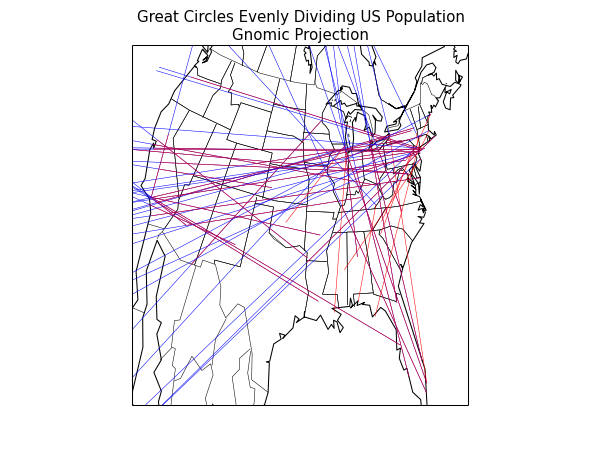
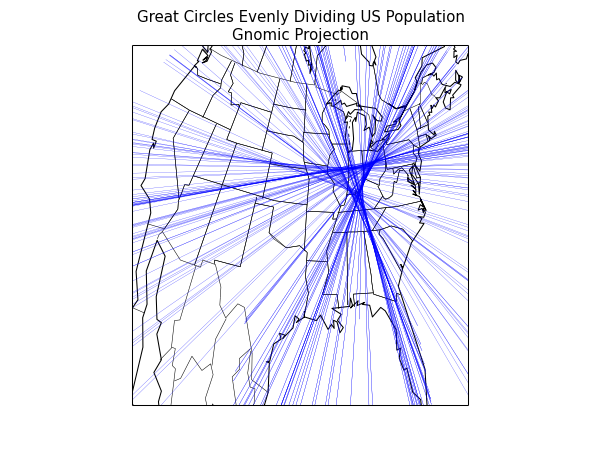
calculated and drew great circle dividers

Changed region(s): [[0.21, 0.0933, 0.78, 0.9022], [0.27, 0.7778, 0.3, 0.8089]]

diff --git a/drawmap.py b/drawmap.py
@@ -36,23 +36,26 @@ def drawmap(m,outfile,title):
 
 		#extend great cirlce to the right and left by calculating it's intersection with 2
 		#other great circles, at fixed longitudes (vertical lines on mercator projection)
-		rightCircle = Greatcircle(0.,-60,10.,-60.)
-		leftCircle = Greatcircle(0.,-130.,10.,-130.)
+		# rightCircle = Greatcircle(0.,-60,10.,-60.)
+		# leftCircle = Greatcircle(0.,-130.,10.,-130.)
 
-		right_coords = intersection(inCircle,rightCircle)
-		left_coords = intersection(inCircle,leftCircle)
 
-		try:
-			if lon1<lon2:
-				#m.drawgreatcircle(lon2,lat2,-60.,right_coords[0], linewidth=.5, color='b', alpha = 1)
-				m.drawgreatcircle(-130.,left_coords[0],lon2,lat2, linewidth=.5, color='b', alpha = 1)
+		# if lon1<lon2:
+		# 	m.drawgreatcircle(lon2,lat2,-60.,right_coords[0], linewidth=.5, color='b', alpha = 1)
+		# 	m.drawgreatcircle(-130.,left_coords[0],lon1,lat1, linewidth=.5, color='b', alpha = 1)
 
-			else:
-				#m.drawgreatcircle(lon1,lat1,-60.,right_coords[0], linewidth=.5, color='b', alpha = 1)
-				m.drawgreatcircle(-130.,left_coords[0],lon1,lat1, linewidth=.5, color='b', alpha = 1)
-			m.drawgreatcircle(lon1,lat1,lon2,lat2,linewidth=.5, color='r')
-		except:
-			pass
+		# else:
+		# 	m.drawgreatcircle(lon1,lat1,-60.,right_coords[0], linewidth=.5, color='b', alpha = 1)
+		# 	m.drawgreatcircle(-130.,left_coords[0],lon2,lat2, linewidth=.5, color='b', alpha = 1)
+		for lon in [[-130,-101,'b'],[-101,-93,'b'],[-93,-87,'b'],[-87,-80,'b'],[-80,-60,'b']]:
+			rightCircle = Greatcircle(0.,lon[0],10.,lon[0])
+			leftCircle = Greatcircle(0.,lon[1],10.,lon[1])
+			right_coords = intersection(inCircle,rightCircle)
+			left_coords = intersection(inCircle,leftCircle)
+			m.drawgreatcircle(left_coords[1],left_coords[0],right_coords[1],right_coords[0],linewidth=.2, color=lon[2])
+		#m.drawgreatcircle(lon1,lat1,lon2,lat2,linewidth=1,color='r')
+		#m.drawgreatcirlce(-60,35.,-130,35.,color='r')
+
 
 	#set title and save graph
 	ax.set_title(title)

diff --git a/calculation.py b/calculation.py
@@ -25,7 +25,7 @@ for row in data:
 	lats_round.append(round(float(row[5]),1))
 	longs_round.append(round(float(row[6]),1))
 
-for loopcount in range(0,100):
+for loopcount in range(0,10000):
 	print loopcount
 	left_total = 0.
 	right_total = 0.
